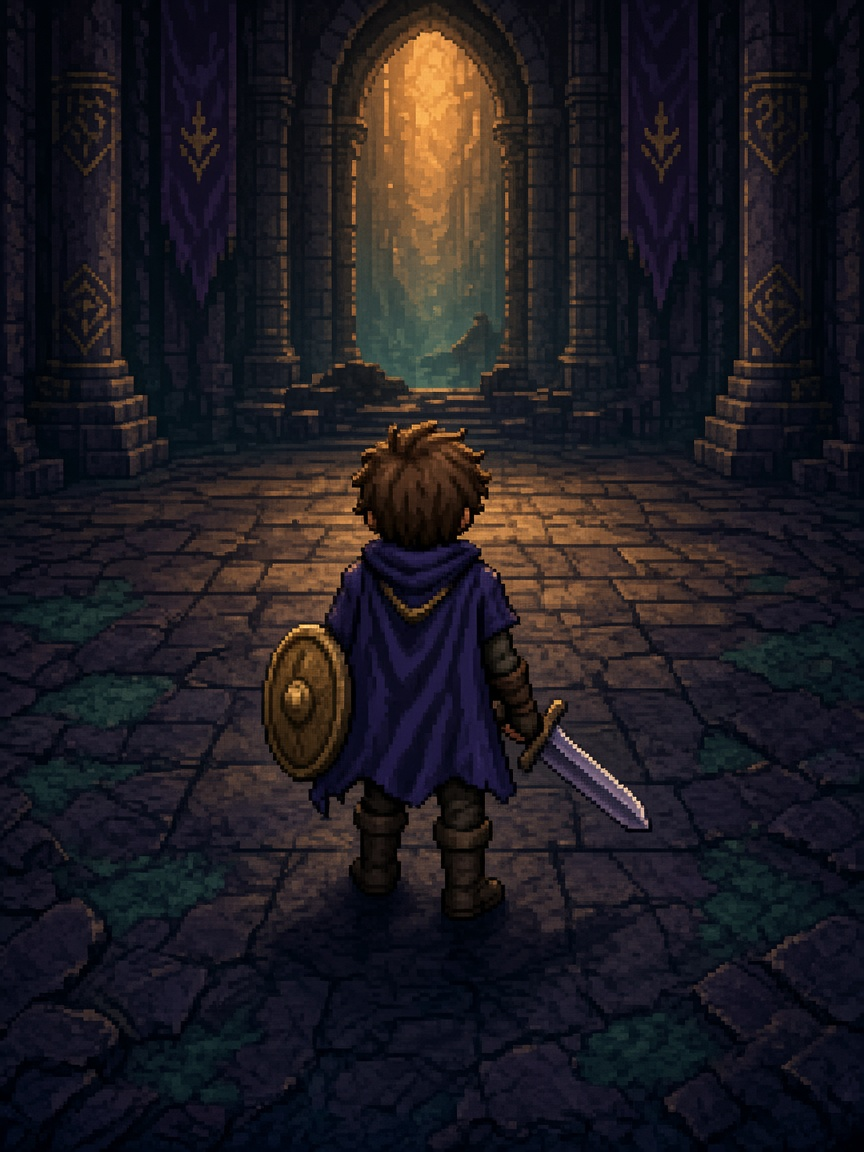
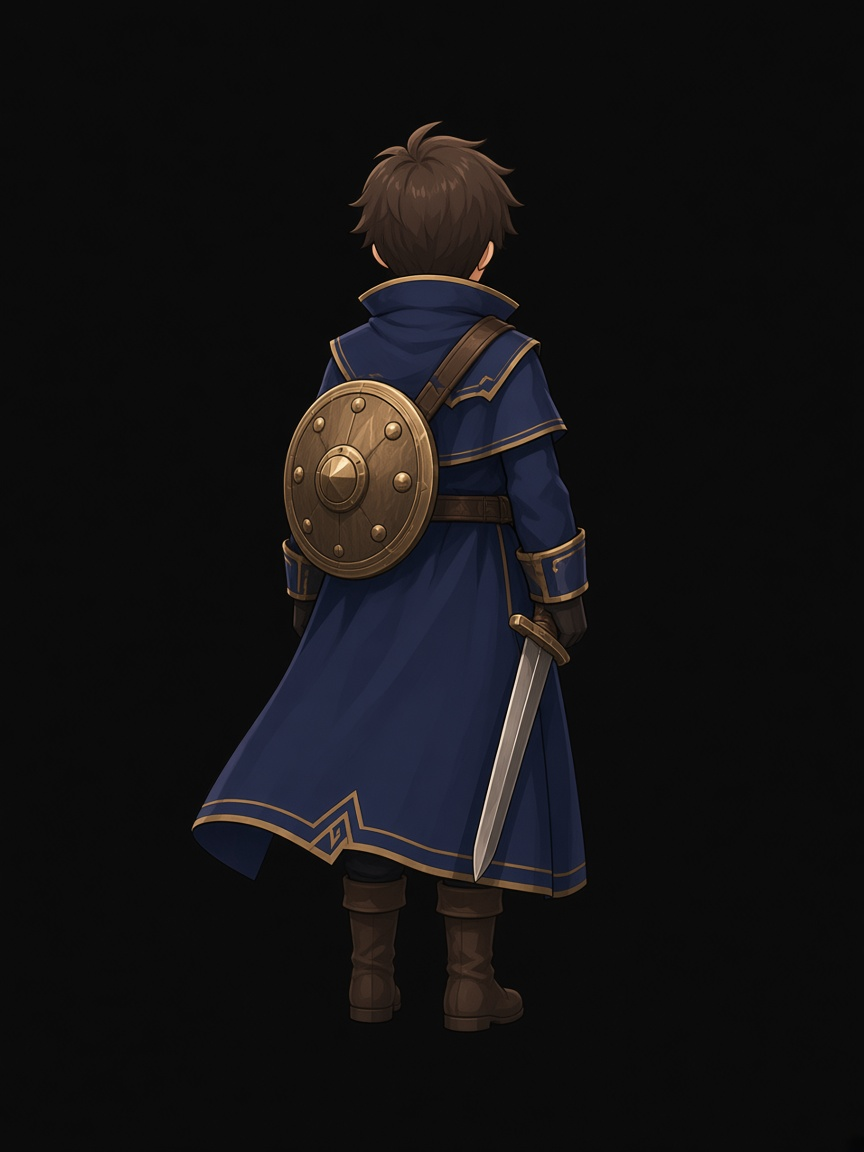
Ship Phase-1 hub art for hero #3 and door #4.
Wire generated sprites into the rear-view hub with procedural fallback; bump SW cache to v23.

diff --git a/docs/lamp-dungeon.js b/docs/lamp-dungeon.js
@@ -48,6 +48,24 @@ function pxRect(ctx, x, y, w, h, color, scale) {
   ctx.fillRect(Math.round(x * scale), Math.round(y * scale), Math.round(w * scale), Math.round(h * scale));
 }
 
+const HUB_ASSET_BASE = new URL('./assets/', import.meta.url);
+
+function loadHubImage(rel) {
+  return new Promise((resolve) => {
+    const img = new Image();
+    img.decoding = 'async';
+    img.onload = () => resolve(img);
+    img.onerror = () => resolve(null);
+    img.src = new URL(rel, HUB_ASSET_BASE).href;
+  });
+}
+
+function drawArt(ctx, img, x, y, w, h) {
+  if (!img || !img.naturalWidth) return false;
+  ctx.drawImage(img, x, y, w, h);
+  return true;
+}
+
 /**
  * @param {HTMLElement} container
  * @param {object} opts
@@ -110,6 +128,34 @@ export function mountLampWorld(container, opts) {
   let pulseT = 0;
   let raf = 0;
   let hubFocus = 'elder'; // left | right | door | elder
+
+  /** 第１弾拠点アート（読み込み失敗時は手描きフォールバック） */
+  const hubArt = {
+    hero: null,
+    heroWalk1: null,
+    heroWalk2: null,
+    doorClosed: null,
+    doorAjar: null,
+    elder: null,
+    pathShield: null,
+    pathSword: null,
+    iconShield: null,
+    iconSword: null,
+    iconSpirit: null
+  };
+  Promise.all([
+    loadHubImage('common/hero-back.jpg').then((i) => { hubArt.hero = i; }),
+    loadHubImage('common/hero-walk-1.jpg').then((i) => { hubArt.heroWalk1 = i; }),
+    loadHubImage('common/hero-walk-2.jpg').then((i) => { hubArt.heroWalk2 = i; }),
+    loadHubImage('rooms/hub/great-door-closed.jpg').then((i) => { hubArt.doorClosed = i; }),
+    loadHubImage('rooms/hub/great-door-ajar.jpg').then((i) => { hubArt.doorAjar = i; }),
+    loadHubImage('rooms/hub/elder.jpg').then((i) => { hubArt.elder = i; }),
+    loadHubImage('rooms/hub/path-shield.jpg').then((i) => { hubArt.pathShield = i; }),
+    loadHubImage('rooms/hub/path-sword.jpg').then((i) => { hubArt.pathSword = i; }),
+    loadHubImage('common/icon-shield.jpg').then((i) => { hubArt.iconShield = i; }),
+    loadHubImage('common/icon-sword.jpg').then((i) => { hubArt.iconSword = i; }),
+    loadHubImage('common/icon-spirit.jpg').then((i) => { hubArt.iconSpirit = i; })
+  ]).catch(() => {});
 
   function resize() {
     const r = container.getBoundingClientRect();
@@ -318,9 +364,9 @@ export function mountLampWorld(container, opts) {
 
   function drawGrowthHud(ctx) {
     const bars = [
-      { key: 'shield', label: '盾', color: '#f0a030', glow: '#ffe08a', g: growth.shield },
-      { key: 'sword', label: '剣', color: '#a070ff', glow: '#e0d0ff', g: growth.sword },
-      { key: 'spirit', label: '精神', color: '#40c080', glow: '#b8ffd0', g: growth.spirit }
+      { key: 'shield', label: '盾', color: '#f0a030', glow: '#ffe08a', g: growth.shield, icon: hubArt.iconShield },
+      { key: 'sword', label: '剣', color: '#a070ff', glow: '#e0d0ff', g: growth.sword, icon: hubArt.iconSword },
+      { key: 'spirit', label: '精神', color: '#40c080', glow: '#b8ffd0', g: growth.spirit, icon: hubArt.iconSpirit }
     ];
     const x0 = 12;
     let y = 12;
@@ -328,33 +374,36 @@ export function mountLampWorld(container, opts) {
       const ratio = Math.max(0, Math.min(1, b.g && b.g.ratio != null ? b.g.ratio : 0));
       const pulse = 0.55 + Math.sin(pulseT * 4) * 0.2 * ratio;
       ctx.fillStyle = 'rgba(10,14,28,0.82)';
-      ctx.fillRect(x0, y, 148, 22);
+      ctx.fillRect(x0, y, 168, 22);
       ctx.strokeStyle = b.color;
-      ctx.strokeRect(x0 + 0.5, y + 0.5, 147, 21);
+      ctx.strokeRect(x0 + 0.5, y + 0.5, 167, 21);
+      if (!drawArt(ctx, b.icon, x0 + 4, y + 2, 18, 18)) {
+        ctx.fillStyle = '#ece9f5';
+        ctx.font = 'bold 11px sans-serif';
+        ctx.textAlign = 'left';
+        ctx.fillText(b.label, x0 + 8, y + 15);
+      }
       ctx.fillStyle = b.color;
       ctx.globalAlpha = 0.35 + pulse * 0.5;
-      ctx.fillRect(x0 + 40, y + 5, Math.max(2, 100 * ratio), 12);
+      ctx.fillRect(x0 + 48, y + 5, Math.max(2, 100 * ratio), 12);
       ctx.globalAlpha = 1;
       if (ratio > 0) {
         ctx.fillStyle = b.glow;
         ctx.globalAlpha = 0.25 + pulse * 0.4;
-        ctx.fillRect(x0 + 40, y + 5, Math.max(2, 100 * ratio), 4);
+        ctx.fillRect(x0 + 48, y + 5, Math.max(2, 100 * ratio), 4);
         ctx.globalAlpha = 1;
       }
-      ctx.fillStyle = '#ece9f5';
-      ctx.font = 'bold 11px sans-serif';
-      ctx.textAlign = 'left';
-      ctx.fillText(b.label, x0 + 8, y + 15);
       ctx.fillStyle = '#9aa0c4';
       ctx.font = '10px sans-serif';
+      ctx.textAlign = 'left';
       const c = (b.g && b.g.cleared) || 0;
       const t = (b.g && b.g.total) || 0;
-      ctx.fillText(c + '/' + t, x0 + 118, y + 15);
+      ctx.fillText(c + '/' + t, x0 + 138, y + 15);
       y += 26;
     });
   }
 
-  /** 後ろ姿視点の拠点シーン（ドット絵） */
+  /** 後ろ姿視点の拠点シーン（第１弾アート＋手描きフォールバック） */
   function drawHubScene(ctx) {
     const W = canvas.width;
     const H = canvas.height;
@@ -383,24 +432,73 @@ export function mountLampWorld(container, opts) {
     }
     ctx.globalAlpha = 1;
 
-    // 左・盾の道（琥珀のアーチ）
+    // 左・盾の道 / 右・剣の道
     const leftLit = hubFocus === 'left';
-    drawPathArch(ctx, W * 0.14, H * 0.38, W * 0.22, H * 0.42, '#c47820', '#ffe08a', leftLit, '盾');
-    // 右・剣の道（紫銀）
     const rightLit = hubFocus === 'right';
-    drawPathArch(ctx, W * 0.64, H * 0.38, W * 0.22, H * 0.42, '#7040c0', '#d8c8ff', rightLit, '剣');
+    const pathW = W * 0.24;
+    const pathH = H * 0.36;
+    const pathY = H * 0.36;
+    if (!drawArt(ctx, hubArt.pathShield, W * 0.08, pathY, pathW, pathH)) {
+      drawPathArch(ctx, W * 0.14, H * 0.38, W * 0.22, H * 0.42, '#c47820', '#ffe08a', leftLit, '盾');
+    } else if (leftLit) {
+      ctx.strokeStyle = '#ffe08a';
+      ctx.lineWidth = 3;
+      ctx.strokeRect(W * 0.08 + 2, pathY + 2, pathW - 4, pathH - 4);
+    }
+    if (!drawArt(ctx, hubArt.pathSword, W * 0.68, pathY, pathW, pathH)) {
+      drawPathArch(ctx, W * 0.64, H * 0.38, W * 0.22, H * 0.42, '#7040c0', '#d8c8ff', rightLit, '剣');
+    } else if (rightLit) {
+      ctx.strokeStyle = '#d8c8ff';
+      ctx.lineWidth = 3;
+      ctx.strokeRect(W * 0.68 + 2, pathY + 2, pathW - 4, pathH - 4);
+    }
 
     // 正面の仰々しい大扉
     const doorOpen = landOpen;
     const doorLit = hubFocus === 'door';
-    drawGreatDoor(ctx, W * 0.5, H * 0.18, W * 0.28, H * 0.48, doorOpen, doorLit, s);
+    const doorImg = doorOpen ? (hubArt.doorAjar || hubArt.doorClosed) : hubArt.doorClosed;
+    const doorW = W * 0.3;
+    const doorH = H * 0.5;
+    const doorX = W * 0.5 - doorW / 2;
+    const doorY = H * 0.12;
+    if (!drawArt(ctx, doorImg, doorX, doorY, doorW, doorH)) {
+      drawGreatDoor(ctx, W * 0.5, H * 0.18, W * 0.28, H * 0.48, doorOpen, doorLit, s);
+    } else if (doorLit) {
+      ctx.strokeStyle = '#ffe08a';
+      ctx.lineWidth = 3;
+      ctx.strokeRect(doorX - 4, doorY - 4, doorW + 8, doorH + 8);
+    }
 
     // 謎の老人（扉の右前）
     const elderLit = hubFocus === 'elder';
-    drawElder(ctx, W * 0.58, H * 0.52, s, elderLit);
+    const elderW = Math.min(W * 0.18, 140);
+    const elderH = elderW * 1.35;
+    const elderX = W * 0.58;
+    const elderY = H * 0.42;
+    if (!drawArt(ctx, hubArt.elder, elderX, elderY, elderW, elderH)) {
+      drawElder(ctx, W * 0.58, H * 0.52, s, elderLit);
+    } else {
+      if (elderLit) {
+        ctx.strokeStyle = '#7fd1ff';
+        ctx.lineWidth = 2;
+        ctx.strokeRect(elderX - 2, elderY - 2, elderW + 4, elderH + 4);
+      }
+      ctx.fillStyle = '#c8c4e0';
+      ctx.font = '11px sans-serif';
+      ctx.textAlign = 'center';
+      ctx.fillText('謎の老人', elderX + elderW / 2, elderY + elderH + 14);
+    }
 
-    // 主人公の後ろ姿（手前中央）
-    drawHeroBack(ctx, W * 0.5, H * 0.78, s * 1.15, pulseT);
+    // 主人公の後ろ姿（手前中央）— 歩行フレーム切替
+    const walk = Math.floor(pulseT * 2) % 2 === 0 ? hubArt.heroWalk1 : hubArt.heroWalk2;
+    const heroImg = walk || hubArt.hero;
+    const heroW = Math.min(W * 0.22, 160);
+    const heroH = heroW * 1.35;
+    const heroX = W * 0.5 - heroW / 2;
+    const heroY = H * 0.62 + Math.sin(pulseT * 2) * 2;
+    if (!drawArt(ctx, heroImg, heroX, heroY, heroW, heroH)) {
+      drawHeroBack(ctx, W * 0.5, H * 0.78, s * 1.15, pulseT);
+    }
 
     // フォーカス枠ヒント
     ctx.fillStyle = 'rgba(10,14,28,0.75)';

diff --git a/docs/sw.js b/docs/sw.js
@@ -1,5 +1,5 @@
 /* ランプ諸島 PWA — 静的アセットをキャッシュ（初回訪問後オフライン閲覧・学習用） */
-const CACHE = 'lamp-archipelago-v22';
+const CACHE = 'lamp-archipelago-v23';
 const PRECACHE = [
   './',
   './index.html',
@@ -24,7 +24,18 @@ const PRECACHE = [
   './data/quests.json',
   './data/refs.json',
   './data/hub-quest.json',
-  './data/slides/hub.json'
+  './data/slides/hub.json',
+  './assets/common/hero-back.jpg',
+  './assets/common/hero-walk-1.jpg',
+  './assets/common/hero-walk-2.jpg',
+  './assets/common/icon-shield.jpg',
+  './assets/common/icon-sword.jpg',
+  './assets/common/icon-spirit.jpg',
+  './assets/rooms/hub/great-door-closed.jpg',
+  './assets/rooms/hub/great-door-ajar.jpg',
+  './assets/rooms/hub/elder.jpg',
+  './assets/rooms/hub/path-shield.jpg',
+  './assets/rooms/hub/path-sword.jpg'
 ];
 
 self.addEventListener('install', (event) => {

diff --git a/docs/assets/PHASE1-PROMPTS.md b/docs/assets/PHASE1-PROMPTS.md
@@ -1,0 +1,30 @@
+# 第１弾プロンプト（Google Flow / 画像生成用）
+
+トーン正本: 主人公 **#3**（きれいめ JRPG）・大扉 **#4**（装飾封印）。  
+参照画像: `mood/chosen/hero-back-clean-rpg.jpg` · `mood/chosen/great-door-ornate.jpg`
+
+共通指定（毎回付ける）:
+
+> Clean modern JRPG concept art, clear readable shapes, soft cel-shaded, muted jewel tones indigo amber violet teal, transparent or plain dark void background when sprite, no text, no logos, no watermark.
+
+## 生成リスト
+
+| # | 出力ファイル | プロンプト要約 |
+|---|--------------|----------------|
+| 1 | `common/hero-back.png` | Traveler from behind, navy coat, small bronze shield left hip, short sword right, standing idle, match reference #3 |
+| 2 | `common/hero-walk-1.png` | Same hero from behind, left foot forward walk cycle frame |
+| 3 | `common/hero-walk-2.png` | Same hero from behind, right foot forward walk cycle frame |
+| 4 | `rooms/hub/great-door-closed.png` | Enormous ornate sealed double doors, dark bronze black stone, gold seal center, match reference #4 |
+| 5 | `rooms/hub/great-door-ajar.png` | Same doors slightly ajar, faint green-gold spirit light in crack |
+| 6 | `rooms/hub/elder.png` | Mysterious elderly sage, side/front three-quarter, simple robe staff, soft cyan eye glint, JRPG readable |
+| 7 | `rooms/hub/path-shield.png` | Stone arch corridor mouth, amber and blue glow, shield motif, perspective into hall |
+| 8 | `rooms/hub/path-sword.png` | Stone arch corridor mouth, purple and silver glow, sword motif |
+| 9 | `common/icon-shield.png` | Small UI icon round bronze shield, amber rim, simple |
+| 10 | `common/icon-sword.png` | Small UI icon short sword, purple silver |
+| 11 | `common/icon-spirit.png` | Small UI icon green-gold spirit flame / lamp |
+
+無料枠内では 1 プロンプトあたり出力を抑え、上表の順で止める。
+
+## 実施メモ（2026-11-14）
+
+Google Flow はセルフィー本人確認でブラウザ自動化が止まったため、同トーンのプロンプトを Cursor `GenerateImage`（参照: ムード #3 / #4）で生成し `docs/assets` に配置した。出力は JPG。

diff --git a/docs/assets/README.md b/docs/assets/README.md
@@ -1,7 +1,8 @@
 # docs/assets — マップ用ピクセル／ムード画
 
 公開マップ（`map.html`）と拠点シーン向けの画像置き場です。  
-トーンの正本は [../ART.md](../ART.md)。物語の正本は [../../WORLD.md](../../WORLD.md)。
+トーンの正本は [../ART.md](../ART.md)。物語の正本は [../../WORLD.md](../../WORLD.md)。  
+第１弾プロンプト: [PHASE1-PROMPTS.md](./PHASE1-PROMPTS.md)
 
 ## ディレクトリ
 
@@ -24,14 +25,18 @@ docs/assets/
 
 | 役割 | パス | 由来 |
 |------|------|------|
-| 主人公（後ろ姿・ドット） | `common/hero-back.jpg` | ムード案 #1 |
-| 大扉（封・装飾） | `rooms/hub/great-door-closed.jpg` | ムード案 #4 |
-| ムード正本コピー | `mood/chosen/hero-back-pixel.jpg` · `great-door-ornate.jpg` | 同上 |
+| 主人公（後ろ姿・きれいめ JRPG） | `common/hero-back.jpg` | ムード案 #3 → 第１弾 |
+| 主人公歩行 | `common/hero-walk-1.jpg` · `hero-walk-2.jpg` | 第１弾 |
+| 成長アイコン | `common/icon-shield.jpg` · `icon-sword.jpg` · `icon-spirit.jpg` | 第１弾 |
+| 大扉（閉／開） | `rooms/hub/great-door-closed.jpg` · `great-door-ajar.jpg` | ムード案 #4 → 第１弾 |
+| 老人・道口 | `rooms/hub/elder.jpg` · `path-shield.jpg` · `path-sword.jpg` | 第１弾 |
+| ムード正本コピー | `mood/chosen/hero-back-clean-rpg.jpg` · `great-door-ornate.jpg` | #3 / #4 |
 
-`mood/explore/` は第１弾実装の参照用アーカイブです。ゲーム本体からは読みません。
+`mood/explore/` は参照用アーカイブです。ゲーム本体からは読みません。  
+※ 生成ツールが JPG を返すため、本番ファイルも `.jpg`（同内容の `.png` 別名あり）。
 
 ## 命名
 
 - 小文字・ハイフン（例: `great-door-open.png`）
 - 状態があるものは接尾辞（`-closed` / `-open` / `-glow`）
-- 本番向けは最終的に透過 PNG またはスプライトシートへ寄せる（第１弾以降）
+- 本番向けは透過 PNG を優先（ムード JPG はフォールバック可）

diff --git a/docs/ART.md b/docs/ART.md
@@ -6,10 +6,12 @@
 
 | 要素 | 採用 | ファイル |
 |------|------|----------|
-| 主人公 | **ムード #1** — ドット絵・後ろ姿・控えめな灯 | `assets/common/hero-back.jpg` |
-| 大扉 | **ムード #4** — 仰々しい装飾・封印感・石と金 | `assets/rooms/hub/great-door-closed.jpg` |
+| 主人公 | **ムード #3** — きれいめ現代 JRPG・後ろ姿・読みやすいシルエット | `assets/common/hero-back.jpg` / `hero-back.png` |
+| 大扉 | **ムード #4** — 仰々しい装飾・封印感・石と金 | `assets/rooms/hub/great-door-closed.jpg` / `.png` |
 
-不採用案は `assets/mood/explore/` に残しています（ペインタリー主人公・クリーン RPG 主人公・ドット扉・魂光扉）。
+不採用案は `assets/mood/explore/` に残しています（ドット主人公・ペインタリー主人公・ドット扉・魂光扉）。
+
+第１弾の生成プロンプト: [assets/PHASE1-PROMPTS.md](./assets/PHASE1-PROMPTS.md)
 
 ## 構図ロック
 
@@ -32,14 +34,14 @@
 
 拠点の床・壁は落ち着いた石。UI は最小（設定・流れる会話）。サイドパネルや過剰ラベルは置かない。
 
-## 第１弾で足すもの（このディレクトリ整理の次）
+## 第１弾アセット
 
-実装に入るとき、まず次を `common/` と `rooms/hub/` に揃えます。
+`common/` と `rooms/hub/` に揃えるもの:
 
 - 主人公スプライト（後ろ姿・歩行）
 - 大扉（閉／開の気配）
-- 老人（立ち絵 or ドット）
-- 左右の道口の床・壁タイル
+- 老人
+- 左右の道口
 - 成長表示用の盾・剣・精神アイコン（小さく）
 
 生成・編集するときは、上表の採用ムードから逸れないこと。

diff --git a/DESIGN.md b/DESIGN.md
@@ -121,7 +121,7 @@ docs/assets/
   mood/{chosen,explore}/  # ムード正本 / 不採用アーカイブ
 ```
 
-トーンは [docs/ART.md](./docs/ART.md)。採用: 主人公ドット後ろ姿・装飾封印の大扉。
+トーンは [docs/ART.md](./docs/ART.md)。採用: 主人公 #3 きれいめ JRPG・大扉 #4 装飾封印。
 
 ## AI 採点
 
